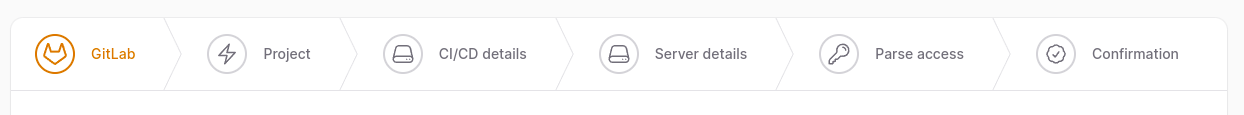
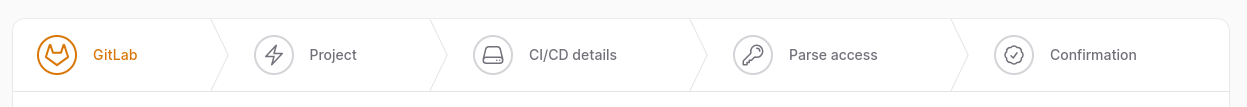
Update README.md

diff --git a/README.md b/README.md
@@ -23,6 +23,8 @@
 
 ### Крок 2: Project
 
+![step-2.png](assets/step-2.png)
+
 На цьому кроці потрібно обрати проект у якому виконувати налаштування.
 В поле вибору завантажується кілька останніх проектів, проте ви може виконувати пошук серед всіх доступних проектів.
 
@@ -38,35 +40,40 @@
 
 Тепер вкажіть деталі для шаблону розгортання GitLab.
 
-- шаблон який використовувати (наразі підтримується лише 3.0)
+![step-3.png](assets/step-3.png)
+
+- шаблон який використовувати (наразі підтримується лише **3.0**)
 - активні кроки та опції для них
   ви можете вимкнути непотрібні кроки підготовки за потреби
 
-Далі по замовчуванню вказано один сервер для розгортання. Для нього вже підготовлено інші дані для наступних кроків,
-тому рекомендуємо змінювати його назву на іншу, замістю видалення та створення нового.
+Далі по замовчуванню вказано один сервер як приклад для розгортання.
+Для нього вже підготовлено інші дані для наступних кроків, тому рекомендуємо змінювати його назву на іншу,
+замість видалення та створення нового.
 
 Якщо необхідно, можна спробувати додати налаштування що для одного серверу одночасно,
 але це для сміливих, бо ми знаємо як це буде працювати (і чи буде працювати).
 
-### Крок 4: Server details
-
-Тут загальна інформація про сервер, як шлях до папки розгортання та виконуваних файлів.
-
-Наразі ця інформація стандартна для більшості серверів і статична.
-
-### Крок 5: Parse access
+### Крок 4: Parse access
 
 На цьому кроці для вас є можливість вказати доступи до серверу, бази даних та почтового сервера, за наявності.
 Вам потрібно вказати доступи у тестовому полі у спеціальному форматі, за зразком.
+
+![step-4.1.png](assets/step-4.1.png)
 
 Після вказання потрібно натиснути кнопку "Parse access data" яка проаналізує надані доступи.
 У разі помилки буде виведено відповідні повідомлення.
 
 Після успішного аналізу буде виведено інформацію яку вдалося розпізнати. Уважно перегляньте їх.
 
-Також для зручності, додано можливість завантажити файли для розготання та продовжити налаштування вручу.
+![step-4.2.png](assets/step-4.2.png)
 
-### Крок 6: Confirmation
+Рекомендую одразу перевірити з'єднання з сервером та отримати необхідну інформацію з нього.
+
+![step-4.3.png](assets/step-4.3.png)
+
+Також для зручності, додано можливість завантажити файли для розгортання та продовжити налаштування вручу.
+
+### Крок 5: Confirmation
 
 Перед запуском процесу підготовки перегляньте дані, які вдалося зібрати про проект.
 Якщо все коректно і ви підтверджуєте, то можете запусти процес на виконання.
